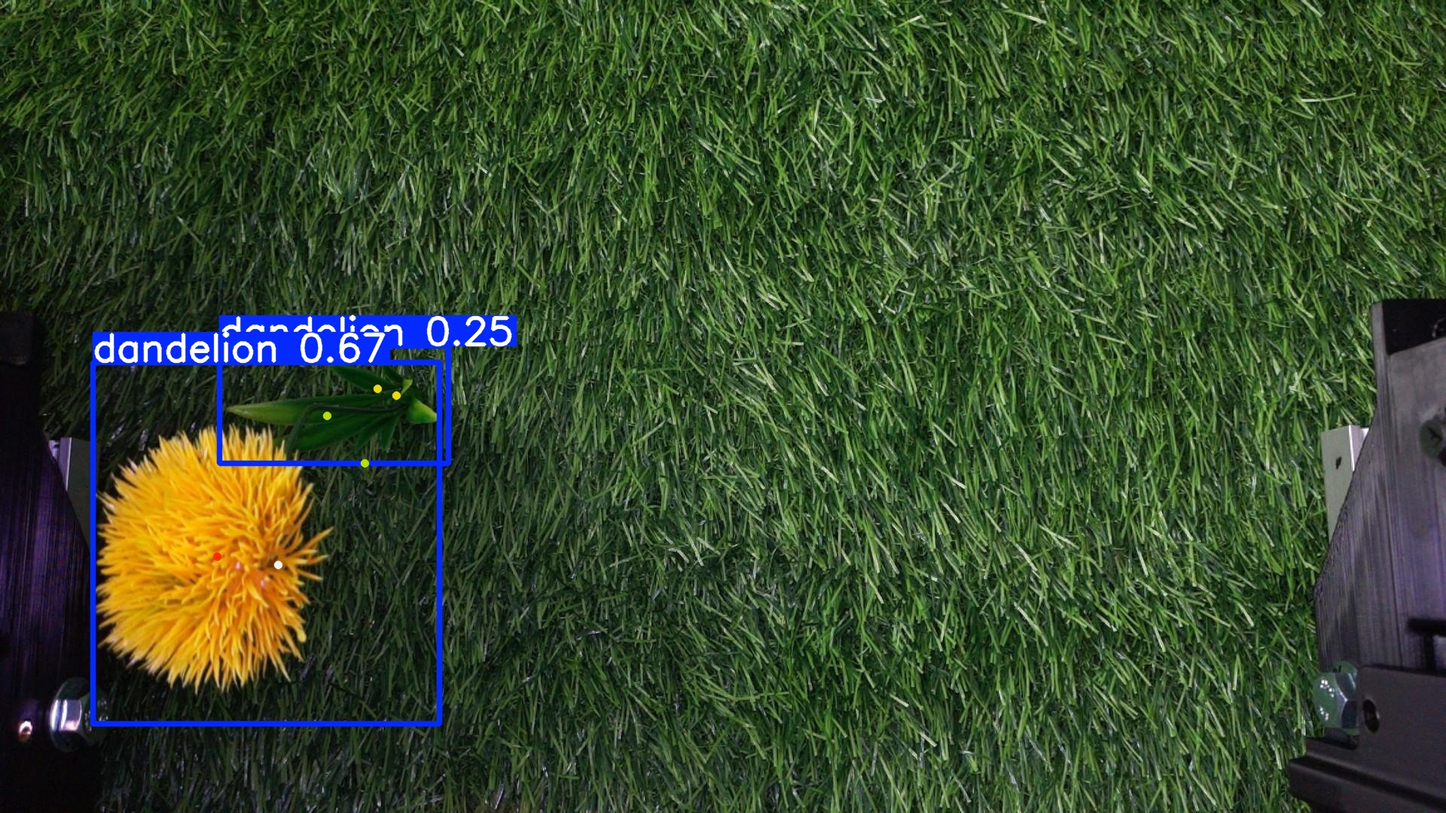
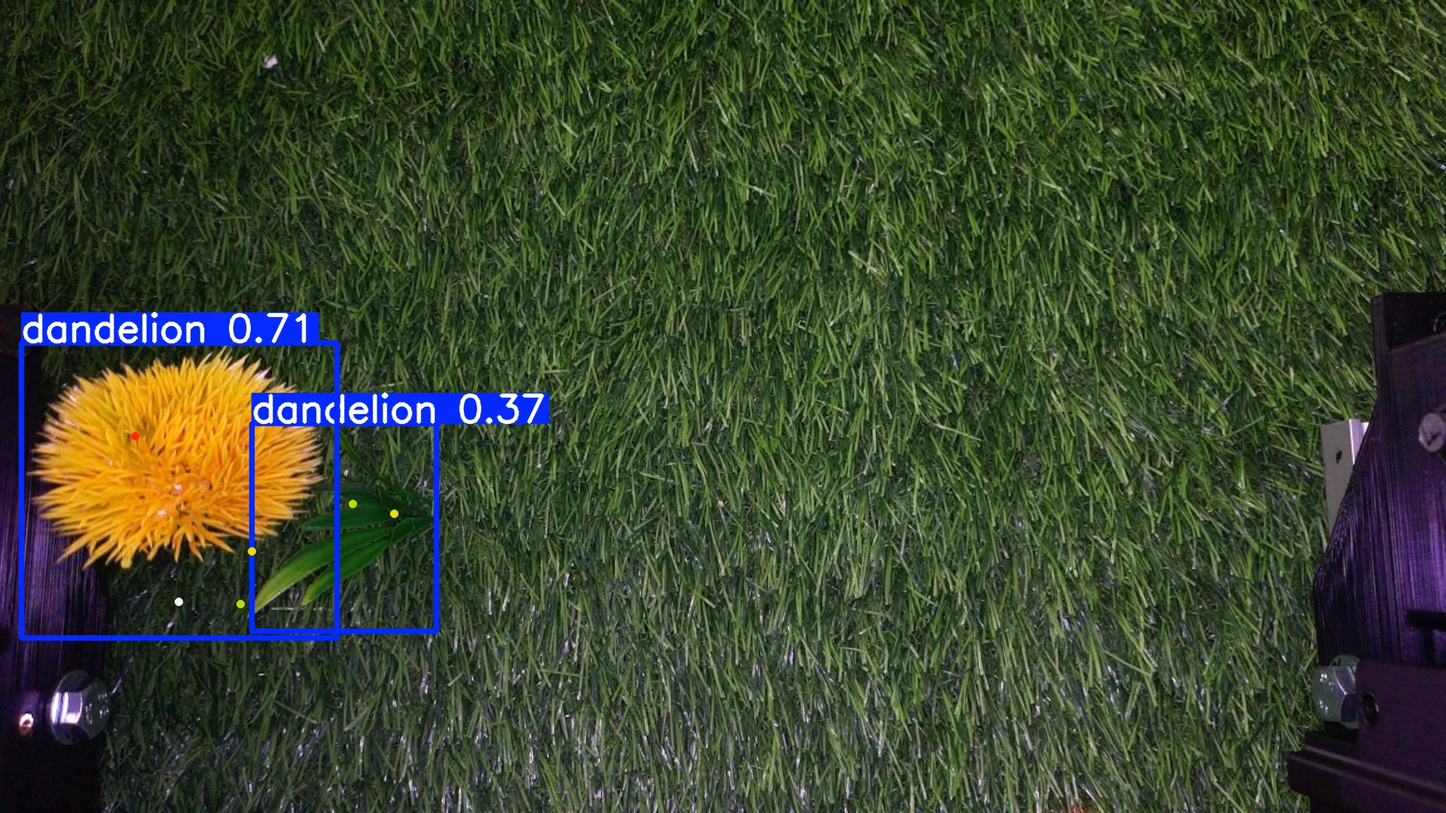
evaluation 2

diff --git a/src/decisions/decisions/test_scripts/model_eval.py b/src/decisions/decisions/test_scripts/model_eval.py
@@ -9,7 +9,43 @@ import time
 import numpy as np
 import csv
 import math
+import cv2
 
+pixel_points = np.array([
+    [1291, 953],
+    [694, 964],
+    [1410, 652],
+    [986, 659],
+    [563, 668],
+    [1385, 242],
+    [977, 251],
+    [571, 258],
+    [982, 451],
+    [991, 876],
+    [1198, 655],
+    [774, 664],
+    [1262, 371],
+    [699, 382],
+], dtype=np.float32)
+
+x = 0
+y = 30
+ground_points = np.array([
+    [x+30, y+30],
+    [x+30, y+160],
+    [x+95, y+0],
+    [x+95, y+95],
+    [x+95, y+190],
+    [x+190, y+0],
+    [x+190, y+95],
+    [x+190, y+190],
+    [x+142.5, y+95],
+    [x+47.5, y+95],
+    [x+95, y+47.5],
+    [x+95, y+142.5],
+    [x+160, y+30],
+    [x+160, y+160],
+], dtype=np.float32)
 
 
 models = {
@@ -42,11 +78,14 @@ def get_image():
     except requests.exceptions.RequestException as e:
         print("Failed to fetch image:", e)
 
-def euclidean_distance(point1, point2):
-    return np.linalg.norm(np.array(point1) - np.array(point2))
-
-
-
+def homography_transform(pixel):
+    # Convert the point to homogeneous coordinates.
+    image_point = np.array([pixel[0], pixel[1], 1], dtype=np.float32)
+    # Apply the homography matrix.
+    ground_point = np.dot(H, image_point)
+    # Normalize to convert from homogeneous coordinates.
+    ground_point /= ground_point[2]
+    return ground_point[:2]
 
 def main():
     print()
@@ -56,10 +95,12 @@ def main():
     neo.fill_strip(int(255 * a), int(255 * a), int(255 * a))
     neo.update_strip()
 
+    
+
     # Wait for light to turn on
     time.sleep(3)
 
-    results_data = {model_name: {"distances": [], "confidences": [], "box_conf": [], "point": []} for model_name in models}
+    results_data = {model_name: {"distances": [], "confidences": [], "box_conf": [], "point": [], "num_boxes": []} for model_name in models}
 
     # Load models
     loaded_models = {model_name: YOLO(model_path, task="pose", verbose=False) for model_name, model_path in models.items()}
@@ -80,6 +121,8 @@ def main():
                 results_data[model_name]["distances"].append(1080)
                 results_data[model_name]["confidences"].append(0)
                 results_data[model_name]["box_conf"].append(0)
+                results_data[model_name]["point"].append(-1)
+                results_data[model_name]["num_boxes"].append(0)
             else:
                 # Filter by box confidence
                 # confidence_threshold = 0.6
@@ -102,7 +145,8 @@ def main():
                     keypoints = sorted(keypoints, key=lambda x: ["base", "lower", "upper", "flower"].index(x[0]))
                     for j, (name, tensor) in enumerate(keypoints):
                         if all(tensor.numpy() != 0):
-                            distance = math.sqrt((tensor[0] - actual_base[0]) ** 2 + (tensor[1] - actual_base[1]) ** 2)
+                            coords = homography_transform((tensor[0], tensor[1]))
+                            distance = math.sqrt((coords[0] - actual_base[0]) ** 2 + (coords[1] - actual_base[1]) ** 2)
                             confidence = tensor[2]
                             if distance < best_distance:
                                 best_distance = distance
@@ -114,6 +158,7 @@ def main():
                 results_data[model_name]["confidences"].append(best_confidence)
                 results_data[model_name]["box_conf"].append(best_box_conf)
                 results_data[model_name]["point"].append(point)
+                results_data[model_name]["num_boxes"].append(len(result.boxes))
 
     # Calculate and print averages
     for model_name in models:
@@ -123,18 +168,20 @@ def main():
         average_confidence = np.mean(results_data[model_name]["confidences"])
         average_box_conf = np.mean(results_data[model_name]["box_conf"])
         average_point = np.mean(results_data[model_name]["point"])
-        print(f"Average best Euclidean distance for {model_name}: {average_distance:.2f}")
+        average_num_boxes = np.mean(results_data[model_name]["num_boxes"])
+        print(f"Average best Euclidean distance for {model_name}: {average_distance:.2f}mm")
         print(f"Average confidence for {model_name}: {average_confidence:.2f}")
         print(f"Average box confidence for {model_name}: {average_box_conf:.2f}")
         print(f"Average point for {model_name}: {average_point:.2f}")
+        print(f"Average number of boxes for {model_name}: {average_num_boxes:.2f}")
 
-        results_data[model_name] = [average_distance, average_confidence, average_box_conf, average_point]
+        results_data[model_name] = [average_distance, average_confidence, average_box_conf, average_point, average_num_boxes]
 
     # Save data to CSV
     csv_path = f"/mnt/shared/weedy_ros/src/decisions/decisions/test_scripts/eval/{test_name}/results.csv"
     with open(csv_path, mode='w', newline='') as file:
         writer = csv.writer(file)
-        writer.writerow(["Model Name", "Average Euclidean Distance (Pixels)", "Average Point Confidence", "Average Box Confidence", "Average Point"])
+        writer.writerow(["Model Name", "Average Euclidean Distance (mm)", "Average Point Confidence", "Average Box Confidence", "Average Point (0-3)", "Average Number of Boxes"])
         for model_name, data in results_data.items():
             writer.writerow([model_name] + data)
     print(f"Results saved to {csv_path}")
@@ -147,13 +194,16 @@ url = "http://localhost:8000"
 neo = Pi5Neo('/dev/spidev0.0', 16, 800)
 a = 1.0
 
-actual_base = (658, 325)
-test_name = "set2/test_"
+H, status = cv2.findHomography(pixel_points, ground_points, cv2.RANSAC, 5.0)
+
+base_pixels = (843, 620)
+actual_base = homography_transform(base_pixels)
+test_name = "set2/test6"
 
 if __name__ == "__main__":
 
-    # main()
+    main()
 
-    init_picture()
+    # init_picture()
 
     cleanup()

diff --git a/utils/utils/robot_params.py b/utils/utils/robot_params.py
@@ -1,6 +1,7 @@
 # robot_params.py
 # Centralized configuration for robot parameters
 import math
+import numpy as np
 
 # Robot physical dimensions
 wheel_radius = 0.115   # m (5 inches) TODO: update
@@ -26,3 +27,40 @@ y_axis_alignment_tolerance = 0.005 # m
 
 # Saves data to csv files
 log = False
+
+# Homography points
+pixel_points = np.array([
+    [1291, 953],
+    [694, 964],
+    [1410, 652],
+    [986, 659],
+    [563, 668],
+    [1385, 242],
+    [977, 251],
+    [571, 258],
+    [982, 451],
+    [991, 876],
+    [1198, 655],
+    [774, 664],
+    [1262, 371],
+    [699, 382],
+], dtype=np.float32)
+
+x = 0
+y = 30
+ground_points = np.array([
+    [x+30, y+30],
+    [x+30, y+160],
+    [x+95, y+0],
+    [x+95, y+95],
+    [x+95, y+190],
+    [x+190, y+0],
+    [x+190, y+95],
+    [x+190, y+190],
+    [x+142.5, y+95],
+    [x+47.5, y+95],
+    [x+95, y+47.5],
+    [x+95, y+142.5],
+    [x+160, y+30],
+    [x+160, y+160],
+], dtype=np.float32)
